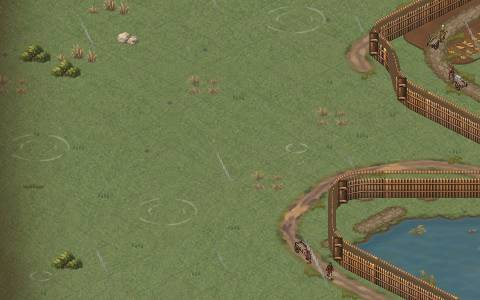
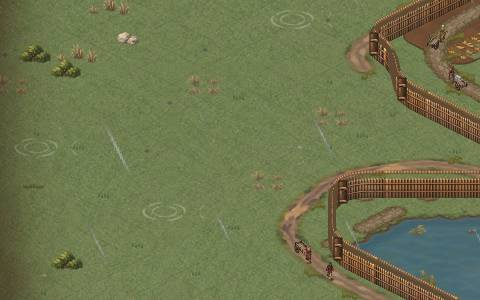
INSTALL-23b and BUDGET-1: reports (DGX captures, budget and image memory at ec901f2 / ef5d68b), decisions INSTALL23B-D1~D3 and BUDGET1-D1~D3, STATUS and roadmap

diff --git a/docs/ROADMAP.html b/docs/ROADMAP.html
@@ -233,7 +233,7 @@ details summary{cursor:pointer;font-weight:600}
 <li>변경은 문서 하단 이력에 한 줄(날짜·세션·무엇).</li>
 <li>이 문서와 <code>AGENTS.md</code>·<code>CLAUDE.md</code>가 충돌하면 이 문서가 우선이고, 충돌을 이력에 적는다.</li>
 </ol>
-<details><summary>변경 이력</summary><ul id="history"><li>2026-09-26 · Claude(프로젝트 대화) · v5.1 최초 작성(조사 12·13·14·15 반영)</li><li>2026-09-26 · Claude · 기록·연대기 설계 v1 반영: F0-C2 기록 원장, CHRON-1 연대기 화면, CHRON-2 세력 연대기 추가(정체성 6 "모든 것이 남는다")</li><li>2026-09-26 · Claude Code(인프라·문서 세션, DOC-1) · 저장소에 넣음(설계 docs/design/CHRONICLE_DESIGN.md 함께). TASKS를 본선 25820693 기준으로 맞춤: INSTALL-7·INSTALL-11·REMOTE-1 완료, UX-3R 진행 중, F0-B·F0-C1·F0-V·INBOX 비고 갱신, R0(완료) 추가. 충돌 2건: ① 헌장 4절 "merge·push → 브랜치 삭제"와 AGENTS.md 규칙 14 "브랜치 삭제는 명시 지시가 있을 때만" — 사용자 판정 전까지 규칙 14를 따른다 ② 이 문서 1절은 정체성 6("모든 것이 남는다")을 더했지만 CHARTER.md·AGENTS.md 0절은 "정체성 다섯" — 이 문서가 우선, 헌장 반영은 사용자 판정 대기</li><li>2026-09-26 · Claude Code(인프라·문서 세션) · 사용자 판정으로 두 충돌 해소: ① AGENTS.md 규칙 14를 "병합 뒤 브랜치 삭제가 기본, 지시서가 남겨 두라고 명시하면 예외"로 고쳐 헌장 4절과 맞춤 ② 정체성 6 "모든 것이 남는다"를 CHARTER.md·AGENTS.md 0절·CLAUDE.md에 넣어 여섯으로 맞춤</li><li>2026-09-26 · Claude Code(렌더 세션) · UX-3R 1차 병합(done), 2차를 UX-3R2(todo)로 나눔</li><li>2026-09-26 · Claude Code(렌더 세션) · UI-3 병합(done)</li><li>2026-09-26 · Claude Code(엔진 세션) · F0-C1 완료(1장 완주 5/5, 가드레일 4/5 seed 3 알려진 정지 FC11), BOT-2 범위에 통나무 넘침 추가(사용자 지시)</li><li>2026-09-26 · Claude Code(엔진 세션) · F0-C2 완료(기록 원장 v0, seed 2 1장 2,806건·+765KB, 가드레일 4/5 seed 3 알려진 정지 FC11)</li><li>2026-09-26 · Claude Code(렌더 세션) · J1 판정 네 가지 반영(done): 식량 저장분만·도착점 병기, 키아트 빌드 시 파생본, 돈 = 페니</li><li>2026-09-26 · Claude Code(엔진 세션) · BOT-2 완료(가드레일 5/5, 봇 성벽 여유 AR-11로 seed 3 알려진 정지 해소, 새 기준선 baseline-90fb216)</li><li>2026-09-26 · Claude Code(엔진 세션) · HIST-1 추가·완료(원장 접기 HL-10: 오래된 일상 기록 계절 요약, 축소판 연 1장, seed 3 1,200,000틱 847KB)</li><li>2026-09-26 · Claude Code(렌더 세션) · UX-3R2 병합(done)</li><li>2026-09-27 · Claude Code(렌더 세션) · UI-4 병합(done)</li><li>2026-09-27 · Claude Code(렌더 세션) · UI-4b 추가·병합(done): 계절 결산 세 장면을 원장에서, Wave 19 설치</li><li>2026-09-27 · Claude Code(엔진 세션) · PERSON-0 엔진 v0 완료(사용자 지시로 G1 앞에 진행: 인물·생애·직책·초상 선택·원장 귀속, 저장 v16, 가드레일 5/5 · seed 4 승리 틱 +19.7 %)</li><li>2026-09-27 · Claude Code(엔진 세션) · WALL-2 추가·완료(목책 확장 선포, 저장 v17, 가드레일 5/5)</li><li>2026-09-27 · Claude Code(렌더 세션) · INSTALL-15 병합(done)</li><li>2026-09-27 · Claude Code(엔진 세션) · FIX-2 추가·완료(구휼 비용 = 나눈 빵 × 시장가, 곡창 방출은 현물 항목, 대기근 대응 예측·실제 금고 모두 — 사용자 지시)</li><li>2026-09-27 · Claude Code(엔진 세션) · FIX-3 추가·완료(투기 판매액 = 판 곡물 × 시장가, 예측·실제 금고 모두 — 사용자 지시)</li><li>2026-09-27 · Claude Code(엔진 세션) · MARKET-RULE(MARKET-1) 완료: 길 도달·12필지 규칙·AR-5 순서(사용자 판정), 가드레일 3회차 4/5 seed 3 알려진 정지 → BOT-3 추가</li><li>2026-09-27 · Claude Code(렌더 세션) · UX-0b 추가·병합(done): 콜드 스타트 감사 v2, 대본 먹을 것 먼저·제재소 단계, 엔진 후보 E1~E11 · 사용자 판정 기록(UI-4·UI-4b·INSTALL-15 유지)</li><li>2026-09-27 · Claude Code(렌더 세션) · CHRON-1 병합(done): 연대기 화면·그때 지도·결정 기록·인물 전기, 초상 풀 설치</li><li>2026-09-27 · Claude Code(렌더 세션) · AUDIO-1 병합(done): 소리 P1 22개·믹서</li><li>2026-09-27 · Claude Code(렌더 세션) · UI-5 병합(done): 청원자·청지기·식구·워커의 사람, 인물 카드·문장·상인 표식(Wave 14)</li><li>2026-09-27 · Claude Code(렌더 세션) · TEST-1 추가·병합(done, 사용자 지시): seasonArt 시험 가짜 시계</li><li>2026-09-27 · Claude Code(INBOX 세션) · ASSET-1 추가·완료(done, 사용자 지시): 에셋 전수 점검 — 문서만, 수정 후보는 사용자 판정 후 ASSET-2</li><li>2026-09-27 · Claude Code(렌더 세션) · UX-0b2 추가·병합(done, 사용자 지시): MARKET-1 도달·WALL-2 확장 미리보기와 목초지 경고를 화면에</li><li>2026-09-27 · Claude Code(INBOX 세션) · INBOX 비고 갱신(INBOX-1j): 초상 풀 3차 72 confirmed, Wave 21·22 수령(판정 반영), 장부 3,071행</li><li>2026-09-27 · Claude Code(엔진 세션) · BOT-3 완료(done): 수레 규칙 LB-15(넘치는 헛간 먼저, 헛간끼리 — 사용자 판정 두 번), 가드레일 2회차 5/5로 알려진 정지 MK6 해소, 새 기준선 baseline-c5c778e</li><li>2026-09-27 · Claude Code(INBOX 세션) · INBOX 비고 갱신(INBOX-1k): Wave 21 58장 확정(재작업 24), Wave 22 재작업 수령, 장부 3,147행</li><li>2026-09-27 · Claude Code(인프라·문서 세션) · REVIEW-1 추가(완료): 병합 전 자동 검사, AGENTS.md 규칙 19</li><li>2026-09-27 · Claude Code(INBOX 세션) · INBOX 비고 갱신(INBOX-1l): Wave 22 재작업 판정 반영, Wave 22 81장 확정</li><li>2026-09-27 · Claude Code(엔진 세션) · FIX-4 추가·완료(done): 사람 플레이 규칙 결함 E1~E11 + 초상(다른 세션 WIP를 사용자 판정으로 이어받음), 저장 v18, 가드레일 5/5, 새 기준선 baseline-3da4fd5</li><li>2026-09-27 · Claude Code(렌더 세션) · UI-KIT-1 추가·병합(done, 사용자 판정): 공용 컨트롤 부품·전수 적용·기본 컨트롤 금지·갤러리·스킨 감사, REVIEW-1 ESLint로 하나</li><li>2026-09-27 · Claude Code(엔진 세션) · FAIL-3 완료(done): 실패 3~4단·장 이어하기(사용자 지시 순서로 C4·F2-A 앞), 저장 v19, 가드레일 5/5, 새 기준선 baseline-14a1bf1</li><li>2026-09-27 · Claude Code(INBOX 세션) · INBOX 비고 갱신(INBOX-1m): 초상 풀 2차·Wave 18 확정(PORTRAIT-2·WAVE-18 done), Wave 20 v3 판자 확정·지붕 눈 재작업 대기</li><li>2026-09-27 · Claude Code(렌더 세션) · UI-KIT-1b 추가·병합(done, 사용자 지시): 일시정지 설정 겹침, 연대 띠 미진입 시대 명목 연도</li><li>2026-09-27 · Claude Code(INBOX 세션) · INBOX 비고 갱신(INBOX-1n): Wave 20 지붕 눈 v4 확정, Wave 20 32장 확정</li><li>2026-09-27 · Claude Code(INBOX 세션) · INBOX 비고 갱신(INBOX-1o): 오래된 candidate 172행 규칙 정리, 58행 남음</li><li>2026-09-27 · Claude Code(INBOX 세션) · INBOX 비고 갱신(INBOX-1p): 규칙 밖 58행 사용자 판정 반영, candidate 3행(목축형 농장)만 남음</li><li>2026-09-28 · Claude Code(INBOX 세션) · INBOX·REVIEW-1 비고 갱신(INBOX-1q): cursor_sheet replaced_by 실제 경로 6개, check:merge 다섯째 검사 ledger(replaced_by → 장부 행)</li><li>2026-09-28 · Claude Code(INBOX 세션) · INBOX 비고 갱신(INBOX-1r): Wave 23 82장 확정, 장부 3,316행</li><li>2026-09-28 · Claude Code(INBOX 세션) · INBOX 비고 갱신(INBOX-1s): 혈통 파일럿 1 90장 candidate(파일럿 2 대기), 장부 3,406행</li><li>2026-09-28 · Claude Code(INBOX 세션) · INBOX 비고 갱신(INBOX-1t): 혈통 파일럿 2 24장 확정, 파일럿 1 판정(대체 24·확정 54·공통 풀 12 candidate), 장부 3,433행</li><li>2026-09-28 · Claude Code(INBOX 세션) · INBOX 비고 갱신(INBOX-1u): 파일럿 2 아기 6장 rework_pending</li><li>2026-09-28 · Claude Code(INBOX 세션) · INBOX 비고 갱신(INBOX-1v): 혈통 본 제작 1차 경량판 191장(확정 153·L4 재작업 대기 38), 파일럿 공통 풀·아기 정리, 장부 3,640행</li><li>2026-09-28 · Claude Code(INBOX 세션) · INBOX 비고 갱신(INBOX-1w): 혈통 복식 교정 v2 45장 확정(L4 38·L5_102 3·확인 4), 옛 판 41 superseded, 장부 3,685행</li><li>2026-09-27 · Claude Code(엔진 세션) · F2-A 완료(done): 전쟁 1337(전령·양모·징집·보조세·봉화·습격·피란민·조달 면허·석벽 대 시장)·2장 끝 → 3장, 저장 v20, 2장 봇 완주 5/5, 가드레일 5/5 새 기준선 baseline-9efac4c. C4 멈춤(hold, 사용자 판정: 렌더 resourceCatalog 뒤 재개)</li><li>2026-09-27 · Claude Code(엔진 세션) · FACTION-0 추가·완료(done): 세력 아홉·수장·관계와 기억·연표·청원 귀속, 저장 v21, 가드레일 5/5(시뮬레이션 무변화). CHRON-2 deps에 FACTION-0</li><li>2026-09-27 · Claude Code(렌더 세션) · RES-REG 완료(done): 자원 목록 content/resourceCatalog.ts 한 곳, 새 자원 = 목록 두 줄(verification/resreg/REPORT.md 8절), 캡처·감사 저장은 코덱으로만. C4 재개 가능</li><li>2026-09-27 · Claude Code(엔진 세션) · FIX-5 추가·완료(done): 실존 가문·작위를 가상 이름으로(저장 v22), 인구 붕괴·빈 도시 사다리, 세력 고정값, 석벽 변형 봇 2장 완공 4/5, 가드레일 5/5</li><li>2026-09-27 · Claude Code(렌더 세션) · CODE-1c 완료(done): 스토어 React 밖·UI 채널 250 ms·표현 시계 필요할 때만 — 5배속 React 커밋 25.2 → 2.4/초, 주민 표현 워커 render/presentation, App 821 → 555줄(ui/stateMachine·ui/screens·input), 문구 20파일 *.ko.ts, 가짜 시계 3파일</li><li>2026-09-28 · Claude Code(엔진 세션) · FIX-5b 추가·완료(done): 재정착민의 한 계절분 빵, 결산 힌트 "재정착민의 식량은 ○○까지"</li><li>2026-09-28 · Claude Code(렌더 세션) · UI-6 추가·완료(done, 사용자 판정 대기): 2장 결정 카드 다섯·전쟁 세계 → UI·계절 띠 예고·장부 권리 탭·연대기 세력 탭(CHRON-2 화면 1차)·2장 목표와 장 쪽</li><li>2026-09-28 · Claude Code(엔진 세션) · FIX-6 추가·완료(done): 저장 이행 코드의 Node 전역 금지(v9ToV10), 초상 풀 3차를 세력 수장에게(생성 파일 재생성 예외), 사람 이름 한글 읽기 표와 personDisplayName</li><li>2026-09-28 · Claude Code(렌더 세션) · UI-6 통과(사용자 판정) · UI-6b 추가·완료(done): 국왕 문장 1340 전후·결정 카드 원형 틀·세력 쪽 기록 칸·습격 부두·피란민 문구</li><li>2026-09-28 · Claude Code(렌더 세션) · BLD-REG 추가·완료(done): 건물 목록 content/buildingCatalog.ts 한 곳, 새 건물 = 엔진 줄 + 목록 두 줄(verification/bldreg/REPORT.md 5절), C4 가마는 목록 두 줄로. ASSET-2 추가(todo)</li><li>2026-09-28 · Claude Code(렌더 세션) · NAME-1 추가·완료(done): 화면의 사람 이름을 persons.displayName 하나로(FIX-6 넘김), 국왕 표 하나, 상인 가문 한글</li><li>2026-09-28 · Claude Code(렌더 세션) · ASSET-2 완료(done): runtime 정리 — 장부 밖·옛 판·caBX·같은 이름 0, 퇴역 16(assets-inbox/retired), 이야기 워커·Wave 13 동물 배율, 자원 막대 시트 칸</li><li>2026-09-28 · Claude Code(인프라·문서 세션) · CODE-1b 추가(완료): 계층 규칙·한글 문자열 검사, AGENTS.md 규칙 19</li><li>2026-09-28 · Claude Code(렌더 세션) · INSTALL-23 추가·완료(done): Wave 23 설치 — 국왕 문장 완성 두 판·날씨 네 가지(상한 0.38)·마을 생활·인물 상태 장식(child_born 부모)·패드 글리프·워커 공사장 이름</li></ul></details>
+<details><summary>변경 이력</summary><ul id="history"><li>2026-09-26 · Claude(프로젝트 대화) · v5.1 최초 작성(조사 12·13·14·15 반영)</li><li>2026-09-26 · Claude · 기록·연대기 설계 v1 반영: F0-C2 기록 원장, CHRON-1 연대기 화면, CHRON-2 세력 연대기 추가(정체성 6 "모든 것이 남는다")</li><li>2026-09-26 · Claude Code(인프라·문서 세션, DOC-1) · 저장소에 넣음(설계 docs/design/CHRONICLE_DESIGN.md 함께). TASKS를 본선 25820693 기준으로 맞춤: INSTALL-7·INSTALL-11·REMOTE-1 완료, UX-3R 진행 중, F0-B·F0-C1·F0-V·INBOX 비고 갱신, R0(완료) 추가. 충돌 2건: ① 헌장 4절 "merge·push → 브랜치 삭제"와 AGENTS.md 규칙 14 "브랜치 삭제는 명시 지시가 있을 때만" — 사용자 판정 전까지 규칙 14를 따른다 ② 이 문서 1절은 정체성 6("모든 것이 남는다")을 더했지만 CHARTER.md·AGENTS.md 0절은 "정체성 다섯" — 이 문서가 우선, 헌장 반영은 사용자 판정 대기</li><li>2026-09-26 · Claude Code(인프라·문서 세션) · 사용자 판정으로 두 충돌 해소: ① AGENTS.md 규칙 14를 "병합 뒤 브랜치 삭제가 기본, 지시서가 남겨 두라고 명시하면 예외"로 고쳐 헌장 4절과 맞춤 ② 정체성 6 "모든 것이 남는다"를 CHARTER.md·AGENTS.md 0절·CLAUDE.md에 넣어 여섯으로 맞춤</li><li>2026-09-26 · Claude Code(렌더 세션) · UX-3R 1차 병합(done), 2차를 UX-3R2(todo)로 나눔</li><li>2026-09-26 · Claude Code(렌더 세션) · UI-3 병합(done)</li><li>2026-09-26 · Claude Code(엔진 세션) · F0-C1 완료(1장 완주 5/5, 가드레일 4/5 seed 3 알려진 정지 FC11), BOT-2 범위에 통나무 넘침 추가(사용자 지시)</li><li>2026-09-26 · Claude Code(엔진 세션) · F0-C2 완료(기록 원장 v0, seed 2 1장 2,806건·+765KB, 가드레일 4/5 seed 3 알려진 정지 FC11)</li><li>2026-09-26 · Claude Code(렌더 세션) · J1 판정 네 가지 반영(done): 식량 저장분만·도착점 병기, 키아트 빌드 시 파생본, 돈 = 페니</li><li>2026-09-26 · Claude Code(엔진 세션) · BOT-2 완료(가드레일 5/5, 봇 성벽 여유 AR-11로 seed 3 알려진 정지 해소, 새 기준선 baseline-90fb216)</li><li>2026-09-26 · Claude Code(엔진 세션) · HIST-1 추가·완료(원장 접기 HL-10: 오래된 일상 기록 계절 요약, 축소판 연 1장, seed 3 1,200,000틱 847KB)</li><li>2026-09-26 · Claude Code(렌더 세션) · UX-3R2 병합(done)</li><li>2026-09-27 · Claude Code(렌더 세션) · UI-4 병합(done)</li><li>2026-09-27 · Claude Code(렌더 세션) · UI-4b 추가·병합(done): 계절 결산 세 장면을 원장에서, Wave 19 설치</li><li>2026-09-27 · Claude Code(엔진 세션) · PERSON-0 엔진 v0 완료(사용자 지시로 G1 앞에 진행: 인물·생애·직책·초상 선택·원장 귀속, 저장 v16, 가드레일 5/5 · seed 4 승리 틱 +19.7 %)</li><li>2026-09-27 · Claude Code(엔진 세션) · WALL-2 추가·완료(목책 확장 선포, 저장 v17, 가드레일 5/5)</li><li>2026-09-27 · Claude Code(렌더 세션) · INSTALL-15 병합(done)</li><li>2026-09-27 · Claude Code(엔진 세션) · FIX-2 추가·완료(구휼 비용 = 나눈 빵 × 시장가, 곡창 방출은 현물 항목, 대기근 대응 예측·실제 금고 모두 — 사용자 지시)</li><li>2026-09-27 · Claude Code(엔진 세션) · FIX-3 추가·완료(투기 판매액 = 판 곡물 × 시장가, 예측·실제 금고 모두 — 사용자 지시)</li><li>2026-09-27 · Claude Code(엔진 세션) · MARKET-RULE(MARKET-1) 완료: 길 도달·12필지 규칙·AR-5 순서(사용자 판정), 가드레일 3회차 4/5 seed 3 알려진 정지 → BOT-3 추가</li><li>2026-09-27 · Claude Code(렌더 세션) · UX-0b 추가·병합(done): 콜드 스타트 감사 v2, 대본 먹을 것 먼저·제재소 단계, 엔진 후보 E1~E11 · 사용자 판정 기록(UI-4·UI-4b·INSTALL-15 유지)</li><li>2026-09-27 · Claude Code(렌더 세션) · CHRON-1 병합(done): 연대기 화면·그때 지도·결정 기록·인물 전기, 초상 풀 설치</li><li>2026-09-27 · Claude Code(렌더 세션) · AUDIO-1 병합(done): 소리 P1 22개·믹서</li><li>2026-09-27 · Claude Code(렌더 세션) · UI-5 병합(done): 청원자·청지기·식구·워커의 사람, 인물 카드·문장·상인 표식(Wave 14)</li><li>2026-09-27 · Claude Code(렌더 세션) · TEST-1 추가·병합(done, 사용자 지시): seasonArt 시험 가짜 시계</li><li>2026-09-27 · Claude Code(INBOX 세션) · ASSET-1 추가·완료(done, 사용자 지시): 에셋 전수 점검 — 문서만, 수정 후보는 사용자 판정 후 ASSET-2</li><li>2026-09-27 · Claude Code(렌더 세션) · UX-0b2 추가·병합(done, 사용자 지시): MARKET-1 도달·WALL-2 확장 미리보기와 목초지 경고를 화면에</li><li>2026-09-27 · Claude Code(INBOX 세션) · INBOX 비고 갱신(INBOX-1j): 초상 풀 3차 72 confirmed, Wave 21·22 수령(판정 반영), 장부 3,071행</li><li>2026-09-27 · Claude Code(엔진 세션) · BOT-3 완료(done): 수레 규칙 LB-15(넘치는 헛간 먼저, 헛간끼리 — 사용자 판정 두 번), 가드레일 2회차 5/5로 알려진 정지 MK6 해소, 새 기준선 baseline-c5c778e</li><li>2026-09-27 · Claude Code(INBOX 세션) · INBOX 비고 갱신(INBOX-1k): Wave 21 58장 확정(재작업 24), Wave 22 재작업 수령, 장부 3,147행</li><li>2026-09-27 · Claude Code(인프라·문서 세션) · REVIEW-1 추가(완료): 병합 전 자동 검사, AGENTS.md 규칙 19</li><li>2026-09-27 · Claude Code(INBOX 세션) · INBOX 비고 갱신(INBOX-1l): Wave 22 재작업 판정 반영, Wave 22 81장 확정</li><li>2026-09-27 · Claude Code(엔진 세션) · FIX-4 추가·완료(done): 사람 플레이 규칙 결함 E1~E11 + 초상(다른 세션 WIP를 사용자 판정으로 이어받음), 저장 v18, 가드레일 5/5, 새 기준선 baseline-3da4fd5</li><li>2026-09-27 · Claude Code(렌더 세션) · UI-KIT-1 추가·병합(done, 사용자 판정): 공용 컨트롤 부품·전수 적용·기본 컨트롤 금지·갤러리·스킨 감사, REVIEW-1 ESLint로 하나</li><li>2026-09-27 · Claude Code(엔진 세션) · FAIL-3 완료(done): 실패 3~4단·장 이어하기(사용자 지시 순서로 C4·F2-A 앞), 저장 v19, 가드레일 5/5, 새 기준선 baseline-14a1bf1</li><li>2026-09-27 · Claude Code(INBOX 세션) · INBOX 비고 갱신(INBOX-1m): 초상 풀 2차·Wave 18 확정(PORTRAIT-2·WAVE-18 done), Wave 20 v3 판자 확정·지붕 눈 재작업 대기</li><li>2026-09-27 · Claude Code(렌더 세션) · UI-KIT-1b 추가·병합(done, 사용자 지시): 일시정지 설정 겹침, 연대 띠 미진입 시대 명목 연도</li><li>2026-09-27 · Claude Code(INBOX 세션) · INBOX 비고 갱신(INBOX-1n): Wave 20 지붕 눈 v4 확정, Wave 20 32장 확정</li><li>2026-09-27 · Claude Code(INBOX 세션) · INBOX 비고 갱신(INBOX-1o): 오래된 candidate 172행 규칙 정리, 58행 남음</li><li>2026-09-27 · Claude Code(INBOX 세션) · INBOX 비고 갱신(INBOX-1p): 규칙 밖 58행 사용자 판정 반영, candidate 3행(목축형 농장)만 남음</li><li>2026-09-28 · Claude Code(INBOX 세션) · INBOX·REVIEW-1 비고 갱신(INBOX-1q): cursor_sheet replaced_by 실제 경로 6개, check:merge 다섯째 검사 ledger(replaced_by → 장부 행)</li><li>2026-09-28 · Claude Code(INBOX 세션) · INBOX 비고 갱신(INBOX-1r): Wave 23 82장 확정, 장부 3,316행</li><li>2026-09-28 · Claude Code(INBOX 세션) · INBOX 비고 갱신(INBOX-1s): 혈통 파일럿 1 90장 candidate(파일럿 2 대기), 장부 3,406행</li><li>2026-09-28 · Claude Code(INBOX 세션) · INBOX 비고 갱신(INBOX-1t): 혈통 파일럿 2 24장 확정, 파일럿 1 판정(대체 24·확정 54·공통 풀 12 candidate), 장부 3,433행</li><li>2026-09-28 · Claude Code(INBOX 세션) · INBOX 비고 갱신(INBOX-1u): 파일럿 2 아기 6장 rework_pending</li><li>2026-09-28 · Claude Code(INBOX 세션) · INBOX 비고 갱신(INBOX-1v): 혈통 본 제작 1차 경량판 191장(확정 153·L4 재작업 대기 38), 파일럿 공통 풀·아기 정리, 장부 3,640행</li><li>2026-09-28 · Claude Code(INBOX 세션) · INBOX 비고 갱신(INBOX-1w): 혈통 복식 교정 v2 45장 확정(L4 38·L5_102 3·확인 4), 옛 판 41 superseded, 장부 3,685행</li><li>2026-09-27 · Claude Code(엔진 세션) · F2-A 완료(done): 전쟁 1337(전령·양모·징집·보조세·봉화·습격·피란민·조달 면허·석벽 대 시장)·2장 끝 → 3장, 저장 v20, 2장 봇 완주 5/5, 가드레일 5/5 새 기준선 baseline-9efac4c. C4 멈춤(hold, 사용자 판정: 렌더 resourceCatalog 뒤 재개)</li><li>2026-09-27 · Claude Code(엔진 세션) · FACTION-0 추가·완료(done): 세력 아홉·수장·관계와 기억·연표·청원 귀속, 저장 v21, 가드레일 5/5(시뮬레이션 무변화). CHRON-2 deps에 FACTION-0</li><li>2026-09-27 · Claude Code(렌더 세션) · RES-REG 완료(done): 자원 목록 content/resourceCatalog.ts 한 곳, 새 자원 = 목록 두 줄(verification/resreg/REPORT.md 8절), 캡처·감사 저장은 코덱으로만. C4 재개 가능</li><li>2026-09-27 · Claude Code(엔진 세션) · FIX-5 추가·완료(done): 실존 가문·작위를 가상 이름으로(저장 v22), 인구 붕괴·빈 도시 사다리, 세력 고정값, 석벽 변형 봇 2장 완공 4/5, 가드레일 5/5</li><li>2026-09-27 · Claude Code(렌더 세션) · CODE-1c 완료(done): 스토어 React 밖·UI 채널 250 ms·표현 시계 필요할 때만 — 5배속 React 커밋 25.2 → 2.4/초, 주민 표현 워커 render/presentation, App 821 → 555줄(ui/stateMachine·ui/screens·input), 문구 20파일 *.ko.ts, 가짜 시계 3파일</li><li>2026-09-28 · Claude Code(엔진 세션) · FIX-5b 추가·완료(done): 재정착민의 한 계절분 빵, 결산 힌트 "재정착민의 식량은 ○○까지"</li><li>2026-09-28 · Claude Code(렌더 세션) · UI-6 추가·완료(done, 사용자 판정 대기): 2장 결정 카드 다섯·전쟁 세계 → UI·계절 띠 예고·장부 권리 탭·연대기 세력 탭(CHRON-2 화면 1차)·2장 목표와 장 쪽</li><li>2026-09-28 · Claude Code(엔진 세션) · FIX-6 추가·완료(done): 저장 이행 코드의 Node 전역 금지(v9ToV10), 초상 풀 3차를 세력 수장에게(생성 파일 재생성 예외), 사람 이름 한글 읽기 표와 personDisplayName</li><li>2026-09-28 · Claude Code(렌더 세션) · UI-6 통과(사용자 판정) · UI-6b 추가·완료(done): 국왕 문장 1340 전후·결정 카드 원형 틀·세력 쪽 기록 칸·습격 부두·피란민 문구</li><li>2026-09-28 · Claude Code(렌더 세션) · BLD-REG 추가·완료(done): 건물 목록 content/buildingCatalog.ts 한 곳, 새 건물 = 엔진 줄 + 목록 두 줄(verification/bldreg/REPORT.md 5절), C4 가마는 목록 두 줄로. ASSET-2 추가(todo)</li><li>2026-09-28 · Claude Code(렌더 세션) · NAME-1 추가·완료(done): 화면의 사람 이름을 persons.displayName 하나로(FIX-6 넘김), 국왕 표 하나, 상인 가문 한글</li><li>2026-09-28 · Claude Code(렌더 세션) · ASSET-2 완료(done): runtime 정리 — 장부 밖·옛 판·caBX·같은 이름 0, 퇴역 16(assets-inbox/retired), 이야기 워커·Wave 13 동물 배율, 자원 막대 시트 칸</li><li>2026-09-28 · Claude Code(인프라·문서 세션) · CODE-1b 추가(완료): 계층 규칙·한글 문자열 검사, AGENTS.md 규칙 19</li><li>2026-09-28 · Claude Code(렌더 세션) · INSTALL-23 추가·완료(done): Wave 23 설치 — 국왕 문장 완성 두 판·날씨 네 가지(상한 0.38)·마을 생활·인물 상태 장식(child_born 부모)·패드 글리프·워커 공사장 이름</li><li>2026-09-28 · Claude Code(렌더 세션) · INSTALL-23 통과(사용자 판정) · INSTALL-23b 추가·완료(done): 빗줄기·물결 상한 밖·면적 12 %, 소품 1.6배·장난감 줌 1.35, 일시정지 중 동물 멈춤 · BUDGET-1 추가·완료(done): dist 범주 예산표·병합 전 검사·이미지 메모리</li></ul></details>
 </div>
 </section>
 </main>
@@ -298,6 +298,8 @@ const TASKS = [
  {id:"NAME-1", phase:"C", track:"렌더", title:"화면의 사람 이름을 persons.displayName(한글 읽기) 하나로: 인물·가구·워커·청원·연대기·전기·세력, 국왕 표 하나", status:"done", gate:"연대기·전기·세력 탭·청원 카드·워커 툴팁 캡처의 사람 이름 라틴 0 · 병합 전 검사·DGX·클론", deps:["FIX-6"], note:"7개 화면 라틴 0 · 회귀 3,286/3,286 · 클론 ec05abd 3,286/3,286"},
  {id:"ASSET-2", phase:"C", track:"렌더", title:"runtime 정리(ASSET-1 판정): 안 쓰는 파일·옛 판 등록 해제, 초기 에셋 폴백을 목록 썸네일로, 자원 아이콘 통일, 이야기 워커·동물 배율, 같은 이름 다른 내용", status:"done", gate:"ASSET-1 재실행 0 · 배율 시험 · C25 재기록 결정 · 감사·UX-3 · 병합 전 검사·DGX·클론", deps:["ASSET-1", "BLD-REG"], note:"ASSET-1 재실행 0·0·0·0 · 감사 0/909 · 회귀 3,288/3,288 · 클론 4111f02 3,288/3,288 · 초기 건물 17개는 목록 보고"},
  {id:"INSTALL-23", phase:"C", track:"렌더", title:"Wave 23 설치: 국왕 문장 완성 두 판(1340 전후) · 날씨 네 가지(상한 0.38) · 마을 생활(작은 동물 1.6배) · 인물 상태 장식 열둘(child_born은 부모 초상) · 패드 글리프 · 워커 카드 공사장 이름", status:"done", gate:"국왕 1339/1340 · 네 날씨 줌 1.0·0.6·알파 ≤ 0.38 시험 · 마을 생활 동물 상한 · 인물 상태 열둘 · 패드 글리프 · DGX p95 ≤ 110 % · 감사·면적·회귀·클론", deps:["UI-6b", "ASSET-2"], note:"p95 폭우 105.7 %·건조 107.5 % · 감사 0/912 · 회귀 3,315/3,315 · 판정 대기: 비 세기·소품 크기·일시정지 중 동물 · 병·부상·임신·순례·집행관은 엔진 자료 대기"},
+ {id:"INSTALL-23b", phase:"C", track:"렌더", title:"INSTALL-23 판정 셋: 빗줄기·물결은 상한 밖(이슬비 0.55·폭우 0.7, 빗줄기 면적 ≤ 12 %)·흐림 색조 올림 · 의자·두레박·빨랫줄 1.6배, 장난감은 줌 1.35부터 · 일시정지 중 동물·새·워커 멈춤, 연기·날씨 계속", status:"done", gate:"빗줄기 면적 시험 · 정지 캡처 구별 · 소품 배율·줌 시험 · 멈춤/1배속 프레임 차 · 병합 전 검사·DGX·클론", deps:["INSTALL-23"], note:"빗줄기 폭우 8.79 %·교차 10.53 % · 맑음과 평균 차 wet 5.57 · 멈춤 중 워커 0/67·동물 칸 0 · 물은 움직이는 그림 없음"},
+ {id:"BUDGET-1", phase:"C", track:"렌더", title:"빌드(dist) 크기 범주별 예산표(전체 150 MB·초상 20·삽화 25)와 병합 전 검사 실패, 1장 끝 저장의 해제 이미지 메모리·초상·삽화 늦은 불러오기 확인", status:"done", gate:"예산표 · 넘으면 check:merge 실패 · DGX 이미지 메모리 1회 · 초상·삽화 화면에 뜰 때만", deps:["INSTALL-23"], note:"63.60 / 150 MB · 초상 4.33·삽화 5.29 · 렌더러 cc/image_memory 45 → 66 MB · 불러왔는데 안 보임 0 · 판정 대기: 글꼴 woff 사본·세계 그림 한꺼번에 불러오기"},
  {id:"TEST-1", phase:"F1", track:"렌더", title:"seasonArt \"held chunk raster\" 시험을 가짜 시계로(DGX 부하에 깨지던 실제 시계 40 ms)", status:"done", gate:"늦은 타이머에서 본선 실패 → 통과 · DGX 100회 연속 · 클론", deps:["INSTALL-15"], note:"createGroundChunkCache(factory, clock) · 시험 clockMs += 20·30·5 · 30 ms 늦은 타이머: 본선 실패(섞임 0/2)·이 가지 통과 · DGX 100/100 · 클론 798a9ec 3,135/3,135"},
  {id:"UI-5", phase:"F1", track:"렌더", title:"인물이 화면에: 청원자·청지기·식구·워커의 사람, 인물 카드·문장·상인 표식(Wave 14)", status:"done", gate:"청원 카드·결정 모달·inspector·인물 카드 캡처 · 초상 매칭 ≥ 95 % · 문장·표식 결정론 · 회귀 0·클론", deps:["PERSON-0"], note:"청원자 칩·대기근 청지기·집 카드 식구(넷 + 모두 보기)·워커 줄(동사+무엇+어디로+진척)·말풍선 이름 · 인물 카드(모달, 문장/표식, 전기로) · Wave 14 50개 설치·seed 해시 레시피·브라우저 합성 · 화면 초상 일치 98.3 % · 같은 seed 같은 지문 c769fd21 · 회귀 0 · 클론 43ee9b2 3,135/3,135 · 청지기 P0 얼굴 판정 대기"},
  {id:"AUDIO-1", phase:"F1", track:"렌더", title:"소리 P1(가동음·환경·계절 전환)", status:"done", gate:"소리 25+ 재생·라이선스 · 계절 전환·장날·화재 스펙트럼 로그 · 성능 p95 ≤ 105 % · 회귀 0", deps:["G1"], note:"새 22(합계 37): 환경 4 크로스페이드·가동 6·워커 3·사건 5·계절 전환 4·해금·팡파르, 합성 17 + Kenney CC0 · 믹서 버스 3·위치 루프 4·5배속 감쇠 · 37/37 재생 · p95 102.6 %·101.3 % · 회귀 0 · 클론 615ed68 3,129/3,129 · 합성 음색 판정 대기"},

diff --git a/docs/decisions/README.md b/docs/decisions/README.md
@@ -349,6 +349,8 @@ S0 지시서가 설계서 14절의 기준선 교체보다 우선한다. 이번 s
 | ASSET2-D1~D5 | ASSET-2: 퇴역은 C1f 규칙(파일을 `assets-inbox/retired/`로, 설치 대장 retired·경로, INBOX 장부 retired 행) — 도로 v2·성벽 면 v1(같은 묶음의 `palisade_face_c-v1` 포함)·`runtime-icons-v1` 8, 장부 밖 10개는 삭제 / 시험 고정값: `roadRibbon`의 선택 가능한 비교 판이 v2 → v1(v2 퇴역), `resourceCatalog`의 자원 그림 기대값이 시트 칸·범용 자루·상자(옛 아이콘 퇴역) / 자원 막대의 작은 그림은 시트 칸이 있을 때만(원석 둘째 줄은 글만) / 이야기 워커는 합성기의 17.6 px 규칙, Wave 13 동물 설치 배율은 큰 동물 평균 몸길이 = 목초지 소 / 초기 건물 17개는 대체 그림·크기 정보로 쓰여 남긴다(목록 보고), 픽셀 수정(말뚝 면 색 띠·잔여 점) 일곱 파일은 받은 바이트와 달라짐을 설치 대장에 적는다 | 사용자 판정(ASSET-1) + 렌더 결정 | 2026-09-28 | [보고서](../verification/asset2/REPORT.md) |
 | INSTALL23-D1~D6 | INSTALL-23: 국왕 분기만 Wave 23 완성 그림(1340년 전 잉글랜드 guardant 사자 셋, 1340년부터 프랑스 백합 4분할; 48 px 이하 96 판, 그 위 256 판), 연도 규칙은 UI-6b 그대로, Wave 14 조합 코드 삭제 / 날씨는 엔진 날씨마다 그림 층, 한 픽셀에 쌓이는 알파 = "all" 층 합 + max(물, 땅) ≤ 0.38(모든 틱, 각 층은 그림의 opacityMax 이하), 움직이는 층 먼저; 세계 캔버스만, 일시정지 메뉴 스위치 `weatherFx`(기본 켬), Wave 9 비 겹침(0.8) 퇴역, 색조는 평균 색 단색 채우기(패턴 대 단색 Mac 3.8 대 0.6 ms · DGX 3.5 대 0.5 ms) / 마을 생활은 표현만(저장·시뮬레이션 0), 가구·집 단계·계절로 결정론, 한 화면 동물 여름 8·겨울 4, 작은 동물(닭·고양이·개·새)만 1.6배, 소품은 Astra 배율 / 인물 상태 장식은 초상 오른쪽 아래 하나(사망 > 굶주림 > 병 > 부상 > 상중 > 아이를 얻음 > 임신 > 혼인 > 순례 > 청지기 > 집행관 > 마을 대표), `newborn` → `child_born`(부모 초상, 한 계절), 사망은 흑백 + 촛불; 엔진 자료 없는 병·부상·임신·순례·집행관은 그림만 준비(엔진에 넘김) / 게임패드를 쓰면 힌트가 패드 글리프, 마우스·키보드면 키 이름 / 워커 카드의 공사장은 건물 이름 + 방향·거리, 출처 검사의 매니페스트 목록에 Wave 23. C25 재기록 없음 | 사용자 지시(INSTALL-23) + 렌더 결정 | 2026-09-28 | [보고서](../verification/install23/REPORT.md) |
 | RV2 | CODE-1b: ① 계층 규칙 — `src/{engine,population,economy,zones,world,save,ledger,state}/**`는 `src/ui/**`·`src/render/**`를 import하지 않는다(ESLint `no-restricted-imports`, 원본 `tools/eslint/layers.mjs`). 기존 위반 1건(`src/population/marketAccess.ts` → `ui/serviceDiagnosisCopy.ko`)은 `tools/eslint/eslint-suppressions.json`에 두고 CODE-1a가 없앤다. `npm run lint`도 억제 파일을 읽는다 ② 병합 전 검사 6단계 `koreanStrings` — `src`의 한글 문자열·템플릿·JSX 텍스트는 `*.ko.ts`·`*.generated.*`에만. 기준 목록 `scripts/checks/korean-strings-baseline.json` 40개 파일·463개 문구(지시서의 59개는 CODE-1c 전 수, 같은 정의로 확인) | 사용자 지시(CODE-1b) | 2026-09-28 | [사용법](../REMOTE_RUNS.md#병합-전-자동-검사) · AGENTS.md 규칙 19 |
+| INSTALL23B-D1~D3 | INSTALL-23b(사용자 판정 2026-09-28): 날씨 합산 상한 0.38은 화면을 덮는 층에만, 빗줄기·물결은 상한 밖(이슬비 0.55, 폭우 0.7, 물결 그림 상한 0.35) — 대신 빗줄기 면적 ≤ 12 %(비 칸의 알파 8 이하 번짐을 지운 뒤 그리는 배율로 최근접 확대해 한 번 자르고, 부드럽게 하지 않고 정수 픽셀로 반복; 시험이 PNG로 모든 틱 확인), 젖은 계절 흐림 0.14–0.18 / 의자·두레박·빨랫줄 1.6배, 장난감은 줌 1.35부터 / 일시정지 중 동물·새는 멈춤(표현 시계 `lifeClock.ts`: 게임이 돌 때만 벽시계만큼 나아감 — 5배속에서도 벽시계 속도), 워커는 원래 멈춤, 연기는 게임 시계 → 프레임 벽시계(멈춤 중에도 오름), 날씨·전쟁 소품 불은 원래 벽시계 | 사용자 판정(INSTALL-23 판정 셋) + 렌더 결정 | 2026-09-28 | [보고서](../verification/install23b/REPORT.md) |
+| BUDGET1-D1~D3 | BUDGET-1: dist 크기를 범주(세계 그림·초상·삽화·키아트·UI·소리·코드·기타)로 — 규칙·예산 한 파일 `scripts/checks/distBudget.config.json`(dist 경로 패턴, 먼저 맞는 규칙, 섞인 웨이브 폴더는 하위 폴더로, 글꼴은 UI), MB = 1,000,000바이트, 예산 전체 150·초상 20·삽화 25 / `check:merge` 일곱째 단계 budget: 푸시 머리를 임시 폴더에 빌드해 재고 넘으면 실패 / 이미지 메모리는 추정(불러온 그림 가로×세로×4 합, 위쪽 한계)과 Chrome memory-infra 측정을 함께 적는다 | 사용자 지시(BUDGET-1) + 렌더 결정 | 2026-09-28 | [보고서](../verification/budget1/REPORT.md) |
 
 ## R1-fix 확정 규칙
 

diff --git a/docs/verification/budget1/REPORT.md b/docs/verification/budget1/REPORT.md
@@ -1,0 +1,44 @@
+# BUDGET-1 빌드 크기 예산·이미지 메모리 — 보고서
+
+관문: 통과 — 전체 63.60 MB / 150 MB · 초상 4.33 / 20 · 삽화 5.29 / 25(DGX 빌드 `ec901f2`) · 넘으면 병합 전 검사 실패(강제 초과 실행으로 확인) · 초상·삽화는 화면에 뜰 때만 불러옴(다섯 단계 모두 "불러왔는데 안 보임" 0) · 시험 6/6 · CLONE_LINE
+
+## 1. 예산표
+- [BUDGET.md](BUDGET.md)(표와 범주 안의 구성), 원본 [dist-budget.json](dist-budget.json)(로컬 `0944bc38`)·[dgx/dist-budget.json](dgx/dist-budget.json)(DGX `ec901f2`, 같은 63.60 MB). MB = 1,000,000바이트.
+
+| 범주 | 파일 | 크기 | 예산 | 남은 폭 |
+|---|---:|---:|---:|---:|
+| 세계 그림 | 660 | 26.14 MB | — | — |
+| 초상 | 614 | 4.33 MB | 20 MB | 15.67 MB |
+| 삽화 | 81 | 5.29 MB | 25 MB | 19.71 MB |
+| 키아트 | 6 | 1.49 MB | — | — |
+| UI | 1,002 | 22.75 MB | — | — |
+| 소리 | 37 | 1.24 MB | — | — |
+| 코드 | 15 | 2.36 MB | — | — |
+| 기타 | 1 | 0.00 MB | — | — |
+| 전체 | 2,416 | 63.60 MB | 150 MB | 86.40 MB |
+
+- 범주 규칙과 예산은 한 파일 `scripts/checks/distBudget.config.json`(dist 안 경로 패턴 → 범주, 먼저 맞는 규칙). 섞인 웨이브 폴더는 하위 폴더로 나눴다(예: wave19 `scenes_*`는 삽화, `cards|pages|timeline`은 UI; wave23 `life_*|weather`는 세계 그림, `pad|person_state|royal`은 UI). 어느 규칙에도 안 맞는 파일은 기타로 세고 목록에 적는다(지금 `assets/.gitkeep` 0바이트 하나).
+- 글꼴은 UI로 셌다: 744개 16.19 MB — UI의 71 %. 빌드가 Noto Sans KR 글자 묶음 372개를 woff2(약 7 MB)와 woff(약 9 MB) 두 가지로 모두 싣는다(판정 필요: woff 빼기).
+
+## 2. 병합 전 검사
+- `npm run check:merge` 일곱째 단계 `budget`: 푸시 머리를 임시 폴더에 `vite build --outDir`로 빌드해 재고 지운다(작업 폴더의 dist는 그대로). 전체나 예산 있는 범주가 넘으면 실패. 빌드 0.8–1.3 초(캐시), 첫 빌드 약 7 초(DGX 6.6 초).
+- 강제 초과(임시로 전체 60 MB·초상 4 MB): `budget: 63.60 MB of 60.00 MB, OVER (전체 … 초상 4.33 MB > 4.00 MB)` → `check:merge: FAILED (budget)`, 종료 1. 시험 `tests/distBudget.test.ts`(범주 나누기, 넘으면 실패) 6/6. 따로 재기: `npm run budget:dist`.
+
+## 3. 1장 끝 저장의 이미지 메모리와 늦은 불러오기(DGX)
+- `scripts/imageMemoryProbe.mjs`, 상태 `scripts/ui4ChapterStates.ts 2 90000`의 `chapter-end`(seed 2, 틱 77,500), 1600 × 1100, DPR 1, 헤드리스 Chrome(소프트웨어 래스터). 결과 [dgx/image-memory-dgx.json](dgx/image-memory-dgx.json).
+
+| 단계 | 초상 불러옴(이 단계) / 화면 | 삽화 불러옴(이 단계) / 화면 | 추정 해제 크기 | Chrome 측정: 렌더러 cc/image_memory · discardable · canvas | GPU shared_images |
+|---|---|---|---:|---|---:|
+| 불러온 직후(1장 쪽) | 1(1) / 1 | 8(8) / 8 | 148.4 MB | 45.1 · 48.9 · 61.4 MB | 46.2 MB |
+| 지도 | 1(0) / 1 | 8(0) / 2 | 148.6 MB | 48.1 · 49.0 · 61.4 MB | 43.4 MB |
+| 연대기 | 6(5) / 6 | 9(1) / 4 | 158.6 MB | 58.2 · 61.5 · 61.5 MB | 52.1 MB |
+| 세력 탭 | 15(9) / 10 | 9(0) / 2 | 162.4 MB | 63.6 · 64.1 · 61.4 MB | 51.9 MB |
+| 국왕 세력 쪽 | 16(1) / 2 | 9(0) / 2 | 164.7 MB | 66.0 · 66.4 · 61.4 MB | 47.7 MB |
+
+- 늦은 불러오기: 모든 단계에서 그 단계에 불러온 초상·삽화는 그때 화면에 있었다("불러왔는데 안 보임" 0). 초상·삽화는 CSS 배경(`src/ui/portraitArt.ts`, `src/ui/wave16Art.ts`)이라 화면에 그려질 때 브라우저가 가져온다. 화면 수보다 불러온 수가 큰 것은 앞 단계에서 보였던 것이 남은 것.
+- 세계 그림은 시작 때 한 번에 불러온다: 590개(파일 24.1 MB, 추정 해제 118.8 MB), `src/render/preloadGameArt.ts:17`. 초상·삽화가 아니라 그대로 뒀다.
+- "추정 해제 크기"는 지금까지 불러온 모든 그림의 가로 × 세로 × 4의 합 — 아무것도 버리지 않는다고 본 위쪽 한계다. Chrome이 실제로 들고 있는 해제 그림은 렌더러 `cc/image_memory` 45 → 66 MB(연대기·세력을 돌며 +21 MB), 버릴 수 있는 캐시 `discardable` 49 → 66 MB, 캔버스 61 MB(게임 캔버스와 오프스크린 캐시), GPU 프로세스 shared_images 43–52 MB.
+
+## 4. 판정 대기
+1. 글꼴 woff 사본(372개, 약 9 MB — UI 16.19 MB의 절반 남짓): woff2만 남길지.
+2. 세계 그림을 시작 때 전부 불러오는 것(590개, 추정 해제 119 MB)을 그대로 둘지.

diff --git a/docs/verification/install23b/REPORT.md b/docs/verification/install23b/REPORT.md
@@ -1,0 +1,31 @@
+# INSTALL-23b 비 세기·마을 소품·일시정지 — 보고서
+
+관문: GATES_LINE
+
+사용자 판정(INSTALL-23 보고의 판정 셋, 2026-09-28)을 그대로 반영했다.
+
+## 1. 비 세기
+- 합산 상한 0.38은 화면을 덮는 층에만(흐림·서리 색조, 물가 안개, 박무, 먼지, 젖은 광택, 갈라진 땅, 구름 그림자). 빗줄기와 웅덩이 물결은 상한 밖(`overCap`, `src/render/weatherLayers.ts`).
+  - 이슬비: 젖은 계절 내내 0.55(`DRIZZLE_PERMILLE`). 폭우: 한창(500–650틱, 앞뒤 50틱 교차)에 0.7(`STORM_PERMILLE`). 물결 0.30–0.35(그림 상한 0.35).
+  - 젖은 계절의 흐림 색조 0.06–0.08 → 0.14–0.18(그림 상한 0.18). 상한 안의 합: 아침 0.32 · 낮 0.25 · 폭우 0.26.
+- 빗줄기 면적 ≤ 12 %(`RAIN_AREA_MAX`):
+  - 비 그림 칸을 자를 때 알파 8 이하 픽셀(0.7에서 최대 2 %로 그려지는 번짐)을 지우고, 그다음 그리는 배율(이슬비 1.5, 폭우 1.25)로 최근접 확대해 한 번 만든다(`weatherArt.ts`). 화면에는 부드럽게 하지 않고 정수 픽셀 단위로 반복해서, 칸에서의 비율이 화면에서의 비율 그대로다.
+  - 처음 방식(원본 칸에 배율 변환 + 부드럽게)은 가장자리 번짐 때문에 폭우가 화면의 13.3 %를 덮었다(브라우저 측정). 번짐 문턱만 올려서는 48에서도 교차 구간 12.1 %라, 칸을 미리 확대하는 쪽으로 바꿨다.
+  - 시험(`tests/weatherOverlay.test.ts`): PNG를 읽어 렌더러와 같은 방식(문턱 → 최근접 확대)으로 칸마다 덮는 비율을 재고, 젖은 계절 0–999틱 모두 그려지는 비 층의 합 ≤ 12 %. 흐림 ≥ 0.14, 비·물결만 상한 밖, 나머지 층은 그림 상한 이하.
+  - 브라우저 측정(1280 × 800, 칸 넷 중 가장 많이 덮는 것): 이슬비 1.74 % · 폭우 8.79 % · 교차 구간 둘 합 10.53 %(한계 12 %).
+- 정지 화면 구별: 맑음과의 세계 캔버스 평균 차 wet 5.57 · 폭우 7.78 / 255(INSTALL-23 때 wet 아침 2.84–3). [r-clear-crop](dgx/r-clear-crop.jpg) · [r-wet-crop](dgx/r-wet-crop.jpg) · [r-storm-crop](dgx/r-storm-crop.jpg)(원래 픽셀) · 전체 [clear](dgx/r-clear-z1.0.jpg)·[wet](dgx/r-wet-z1.0.jpg)·[storm](dgx/r-storm-z1.0.jpg).
+
+## 2. 마을 소품
+- 의자·두레박(물통)·빨랫줄 두 가지는 작은 동물과 같은 1.6배(`LEGIBLE_PROPS`, `src/render/villageLife.ts`). 통(barrel)은 그대로.
+- 아이 장난감(공·굴렁쇠·나무칼)은 줌 1.35 이상에서만 그린다(`TOY_MIN_ZOOM`, `villageLifeDrawnAt`).
+- 시험(`tests/villageLife.test.ts`): 배율 표, 줌 1·1.34에서 장난감 없음·1.35에서 있음.
+- 캡처: [p-props-z1.0](dgx/p-props-z1.0.jpg) · [p-props-z1.4](dgx/p-props-z1.4.jpg)(2장 끝 마을 여름, 가장 붐비는 마당).
+
+## 3. 일시정지
+- 동물·새: 새 시계 `src/render/lifeClock.ts` — 벽시계를 따라가되 게임이 멈춘 동안은 멈춘다(모든 배속에서 벽시계 속도라 5배속에서도 새가 다섯 배로 날지 않는다). 캔버스 런타임이 매 프레임 게임 속도를 읽어 넘긴다(`running`).
+- 워커: 원래 멈춘다(틱 사이 보간, 멈추면 보간 값이 1로 고정).
+- 날씨: 원래 벽시계(`nowMs`)라 멈춤 중에도 계속. 연기: 게임 시계였다(멈추면 멈춤) → 프레임 벽시계로(`smokeTimeMs`, `roofSmoke.ts`). 전쟁 소품의 불·연기는 원래 벽시계. 물: 지금 렌더러에는 물의 움직이는 그림이 없다(물 표면은 정지 그림이라 멈춤과 상관없다 — 멈춤 차이 그림에도 물은 없다).
+- 측정(줌 2, 날씨 끔, 1.63 초 간격 두 프레임, 색 차 > 12인 픽셀): 멈춤 — 동물 칸 바뀐 픽셀 0, 워커 67명 중 움직인 워커 0(게임 상태에서 읽음), 화면에서 바뀐 픽셀 3,455(지붕 연기; 워커 칸 326은 그 앞을 지나는 연기) · 1배속 — 동물 칸 468, 워커 76명 중 75명 움직임, 화면 50,245. 두 프레임 간격 1.63 초(연기 그림 4장 × 180 ms = 720 ms 주기의 배수를 피함; 1.5 초로 처음 잰 DGX 실행은 두 프레임의 연기가 같아 화면 0이었다). 차이 그림: [f-paused-diff](dgx/f-paused-diff.jpg)(지붕 연기만) · [f-running-diff](dgx/f-running-diff.jpg).
+
+## 4. 검증
+VERIFY_SECTION

diff --git a/docs/STATUS.md b/docs/STATUS.md
@@ -1,11 +1,21 @@
 # 현재 상태
 
-갱신: 2026-09-28(INSTALL-23 · ASSET-2 · NAME-1 · BLD-REG · UI-6b · FIX-6 · UI-6 · FIX-5b · CODE-1c · FIX-5 · RES-REG · FACTION-0 · F2-A · C4 멈춤 · UI-KIT-1b · FAIL-3 · UI-KIT-1 · FIX-4 · BOT-3 · UX-0b2 · ASSET-1 · TEST-1 · UI-5 · AUDIO-1 · CHRON-1 · UX-0b · MARKET-1 · FIX-3 · FIX-2 · INSTALL-15 · WALL-2 · PERSON-0 · UI-4b · UI-4 · UX-3R2 · HIST-1 · BOT-2 · J1 판정 네 가지 · F0-C2 · UI-3 · UX-3R 1차 · F0-C1 · F0-B · INSTALL-11 · INSTALL-7 · R0 · F0-V · F0-A · INSTALL-5c · UX-2 · UX-1 · MOVE-1 · FIX-1 · BOT-1 완료 · INSTALL-4e · TOUCH-1 · PLAY-1 · V2 · C3 · C1f · C1c-2 · B9 · D3b 벽 띠 플래그 · D3b · D3a · C1e · C1d · C1c · C2 · C1b · B3 · D1a-2 · B5+C1a). 제품 본선: `codex/phase15-organic-ground`.
+갱신: 2026-09-28(BUDGET-1 · INSTALL-23b · INSTALL-23 · ASSET-2 · NAME-1 · BLD-REG · UI-6b · FIX-6 · UI-6 · FIX-5b · CODE-1c · FIX-5 · RES-REG · FACTION-0 · F2-A · C4 멈춤 · UI-KIT-1b · FAIL-3 · UI-KIT-1 · FIX-4 · BOT-3 · UX-0b2 · ASSET-1 · TEST-1 · UI-5 · AUDIO-1 · CHRON-1 · UX-0b · MARKET-1 · FIX-3 · FIX-2 · INSTALL-15 · WALL-2 · PERSON-0 · UI-4b · UI-4 · UX-3R2 · HIST-1 · BOT-2 · J1 판정 네 가지 · F0-C2 · UI-3 · UX-3R 1차 · F0-C1 · F0-B · INSTALL-11 · INSTALL-7 · R0 · F0-V · F0-A · INSTALL-5c · UX-2 · UX-1 · MOVE-1 · FIX-1 · BOT-1 완료 · INSTALL-4e · TOUCH-1 · PLAY-1 · V2 · C3 · C1f · C1c-2 · B9 · D3b 벽 띠 플래그 · D3b · D3a · C1e · C1d · C1c · C2 · C1b · B3 · D1a-2 · B5+C1a). 제품 본선: `codex/phase15-organic-ground`.
 
 **로드맵**: [`ROADMAP.html`](ROADMAP.html)(비전·화면·로드맵, 작업 상태는 5절 `TASKS` 배열) · 헌장 [`CHARTER.md`](CHARTER.md).
 - **상태 변경 시 두 곳을 갱신한다.** `ROADMAP.html`의 `TASKS`(status·note, 변경 이력 한 줄)와 이 파일을 같은 커밋에서 고친다.
 
 ## 현재 단계
+
+- **BUDGET-1 빌드 크기 예산·이미지 메모리 — 완료, 본선 병합**(Claude Code, 렌더 세션, 사용자 지시): [보고서](verification/budget1/REPORT.md), [예산표](verification/budget1/BUDGET.md), 결정 BUDGET1-D1~D3.
+  - dist 63.60 MB / 150(초상 4.33 / 20, 삽화 5.29 / 25, 세계 그림 26.14, UI 22.75 — 글꼴 16.19), `check:merge` budget 단계가 넘으면 실패.
+  - 1장 끝 저장(DGX): 초상·삽화는 화면에 뜰 때만 불러온다. 렌더러 해제 그림 45 → 66 MB(연대기·세력), 캔버스 61 MB, 추정 위쪽 한계 148 → 165 MB. 세계 그림 590개는 시작 때 한꺼번에.
+  - 판정 대기: 글꼴 woff 사본(약 9 MB), 세계 그림 한꺼번에 불러오기.
+
+- **INSTALL-23b 비 세기·소품·일시정지 — 완료, 본선 병합**(Claude Code, 렌더 세션, 사용자 판정 INSTALL-23): [보고서](verification/install23b/REPORT.md), 결정 INSTALL23B-D1~D3.
+  - 빗줄기·물결은 0.38 상한 밖(이슬비 0.55, 폭우 0.7), 빗줄기 면적 ≤ 12 %(폭우 8.79 %, 교차 10.53 %), 젖은 계절 흐림 0.14–0.18 — 정지 화면에서 맑음과 평균 차 5.57(전 3).
+  - 의자·두레박·빨랫줄 1.6배, 장난감은 줌 1.35부터. 일시정지 중 동물·새·워커 멈춤(워커 0/67), 연기·날씨는 계속(연기를 프레임 벽시계로). 물은 움직이는 그림이 없다.
+  - 검증: CLONE_SHA.
 
 - **INSTALL-23 Wave 23 설치 — 관문 통과, 본선 병합**(Claude Code, 렌더 세션, 사용자 지시): [보고서](verification/install23/REPORT.md), 결정 INSTALL23-D1~D6.
   - 국왕 문장은 Wave 23 완성 두 판(1340년 전 guardant 사자 셋, 1340년부터 프랑스 백합 4분할), 연도 규칙 UI-6b 그대로.
